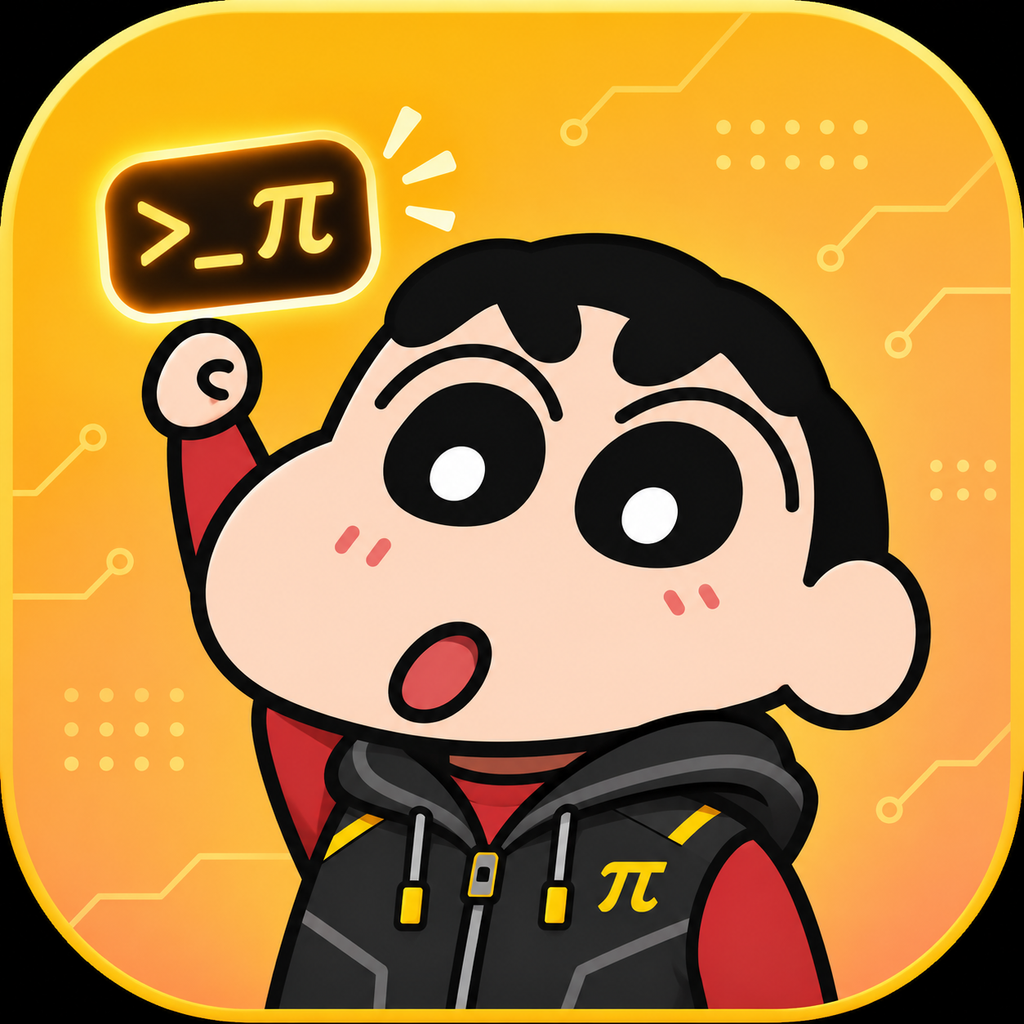
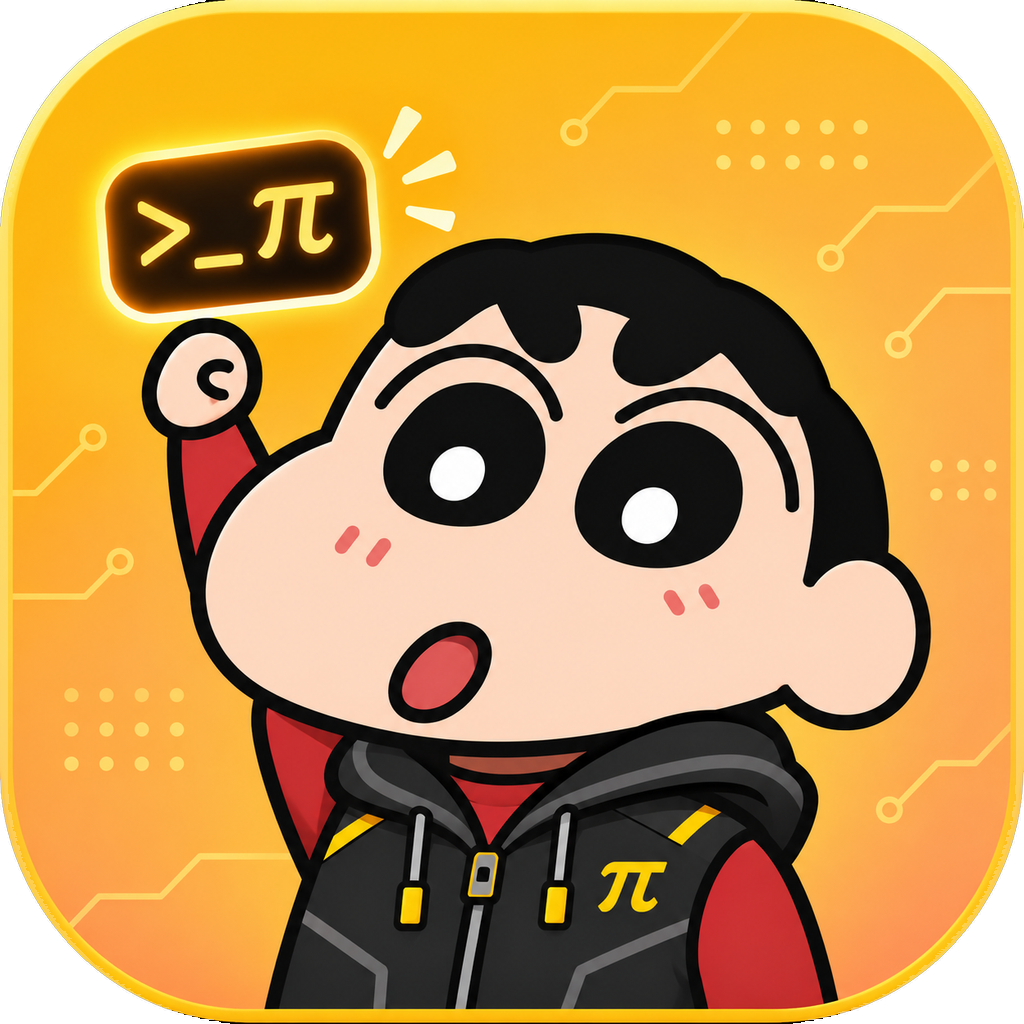
fix(图标): 恢复被压平的 alpha 通道并输出多尺寸 ico
- resources/pi-mx-icon.png 原为无 alpha 的 RGB PNG，圆角外的透明区被压成纯黑，
  桌面/任务栏/安装包图标因此出现一圈黑边
- 新增 scripts/fix-icon-alpha.mjs：按每行轮廓边界还原 alpha，
  边界过渡带用亮度反推（压平公式 pixel = alpha × 前景色），边缘无硬边
- export-app-icon.mjs 的 .ico 改为 16/24/32/48/64/128/256 全套，
  避免 Windows 缩放单张 256 时发虚并把透明压暗

fix(模型): 统一思考程度语义并修复导入时 reasoning 丢失

- modelThinkingLevels() 对 reasoning 缺失一律返回 ['off']，与 pi SDK 的
  definition.reasoning ?? false 保持一致；此前返回 undefined 会让 UI 显示
  完整滑杆而运行时被静默钳制，表现为「思考程度跟模型不匹配」
- defaultModelEntry() 改为只匹配模型名部分（供应商前缀如 opendesign/ 不再
  遮蔽 deepseek 等推理模型特征），并放宽推理家族匹配

Changed region(s): [[0.7812, 0.0, 1.0, 1.0], [0.0, 0.0, 0.2188, 1.0]]

diff --git a/src/renderer/src/features/settings/models-settings-shared.test.ts b/src/renderer/src/features/settings/models-settings-shared.test.ts
@@ -1,0 +1,34 @@
+import { describe, expect, it } from 'vitest'
+import { defaultModelEntry } from './models-settings-shared'
+
+describe('defaultModelEntry', () => {
+  it('marks common reasoning model families as reasoning models', () => {
+    expect(defaultModelEntry('o3-mini').reasoning).toBe(true)
+    expect(defaultModelEntry('gpt-5.2').reasoning).toBe(true)
+    expect(defaultModelEntry('claude-opus-4').reasoning).toBe(true)
+    expect(defaultModelEntry('deepseek-v4.1-flash').reasoning).toBe(true)
+  })
+
+  it('matches on the model name, so a vendor prefix does not hide a reasoning model', () => {
+    // Provider-prefixed ids are the norm for aggregators; the SDK reads
+    // `definition.reasoning ?? false`, so a false negative clamps every level to off.
+    expect(defaultModelEntry('opendesign/deepseek-v4.1-flash').reasoning).toBe(true)
+    expect(defaultModelEntry('codex/gpt-6-luna').reasoning).toBe(true)
+    expect(defaultModelEntry('zcode/GLM-5.3-Flash').reasoning).toBe(true)
+    expect(defaultModelEntry('workbuddy/minimax-m3.1-flash').reasoning).toBe(true)
+  })
+
+  it('leaves a plain model without reasoning rather than guessing wrong', () => {
+    expect(defaultModelEntry('some-plain-model').reasoning).toBeUndefined()
+    expect(defaultModelEntry('some-plain-model').thinkingLevelMap).toBeUndefined()
+  })
+
+  it('gives reasoning models the extended levels the SDK needs', () => {
+    expect(defaultModelEntry('gpt-5').thinkingLevelMap).toEqual({ xhigh: 'xhigh', max: 'max' })
+  })
+
+  it('detects vision input from the model name', () => {
+    expect(defaultModelEntry('gpt-5-vision').input).toEqual(['text', 'image'])
+    expect(defaultModelEntry('plain-model').input).toEqual(['text'])
+  })
+})

diff --git a/src/renderer/src/features/settings/models-settings-shared.tsx b/src/renderer/src/features/settings/models-settings-shared.tsx
@@ -44,9 +44,24 @@ export function ProviderAvatar({ preset, label }: { preset?: ProviderPreset; lab
   )
 }
 
+/**
+ * Entry for a model that is not in the config yet.
+ *
+ * `reasoning` is a guess from the id, because a provider's `/v1/models` listing carries
+ * no capability flags. Match on the model-name part only (after the last `/`), so a
+ * vendor prefix like `opendesign/deepseek-…` still matches on `deepseek`.
+ *
+ * A false negative is the expensive direction: the SDK reads `definition.reasoning ?? false`,
+ * so a model left without `reasoning: true` is treated as non-reasoning and every thinking
+ * level is clamped to `off`. A false positive only costs an extra toggle in the model entry
+ * editor, so the patterns stay generous. Whatever is already written in models.json wins
+ * over this guess (see `mergeModelWithRetained`), and the per-model thinking binding pins
+ * the level the session actually uses.
+ */
 export function defaultModelEntry(id: string): LocalModelEntry {
-  const guessReasoning = /^(o\d|gpt-5|claude-opus|deepseek-reasoner|think)/i.test(id)
-  const guessVision = /(vision|gpt-4o|gemini|claude-3|image)/i.test(id)
+  const name = id.split('/').pop() || id
+  const guessReasoning = /(o\d|gpt-5|gpt-6|claude-(opus|sonnet)|deepseek|reasoner|\br1\b|qwq|glm|minimax|gpt-oss)/i.test(name)
+  const guessVision = /(vision|gpt-4o|gpt-5|gpt-6|gemini|claude-3|image)/i.test(name)
   return {
     id,
     name: id,

diff --git a/packages/shared/model-thinking-levels.test.ts b/packages/shared/model-thinking-levels.test.ts
@@ -5,6 +5,18 @@ describe('model thinking levels', () => {
   it('uses provider mappings and omits explicitly unsupported levels', () => {
     expect(modelThinkingLevels({ reasoning: true, thinkingLevelMap: { off: null, minimal: null, low: 'low', medium: null, high: 'high', xhigh: null, max: 'max' } })).toEqual(['low', 'high', 'max'])
     expect(modelThinkingLevels({ reasoning: false })).toEqual(['off'])
-    expect(modelThinkingLevels({})).toBeUndefined()
+  })
+
+  it('treats a missing reasoning flag as non-reasoning, like the pi SDK', () => {
+    // The SDK reads `definition.reasoning ?? false`, so a model without the flag only
+    // supports `off`. Returning undefined here would make the UI offer levels the
+    // runtime then silently clamps away.
+    expect(modelThinkingLevels({})).toEqual(['off'])
+    expect(modelThinkingLevels({ thinkingLevelMap: { high: 'high' } })).toEqual(['off'])
+  })
+
+  it('includes xhigh and max only when the provider maps them', () => {
+    expect(modelThinkingLevels({ reasoning: true })).toEqual(['off', 'minimal', 'low', 'medium', 'high'])
+    expect(modelThinkingLevels({ reasoning: true, thinkingLevelMap: { xhigh: 'xhigh' } })).toEqual(['off', 'minimal', 'low', 'medium', 'high', 'xhigh'])
   })
 })

diff --git a/packages/shared/model-thinking-levels.ts b/packages/shared/model-thinking-levels.ts
@@ -1,9 +1,17 @@
 export const MODEL_THINKING_LEVELS = ['off', 'minimal', 'low', 'medium', 'high', 'xhigh', 'max'] as const
 export type ModelThinkingLevel = typeof MODEL_THINKING_LEVELS[number]
 
+/**
+ * Available thinking levels for a model, or `undefined` when unknown.
+ *
+ * Must agree with the pi SDK (`@earendil-works/pi-ai` → `getSupportedThinkingLevels`):
+ * the SDK reads `definition.reasoning ?? false`, so a model without an explicit
+ * `reasoning: true` only supports `off`. Returning `undefined` here would make the
+ * UI offer levels the runtime then silently clamps away — the slider would move and
+ * the model would not actually think.
+ */
 export function modelThinkingLevels(model: { reasoning?: boolean; thinkingLevelMap?: Record<string, string | null> }): ModelThinkingLevel[] | undefined {
-  if (model.reasoning === false) return ['off']
-  if (model.reasoning !== true) return undefined
+  if (model.reasoning !== true) return ['off']
   return MODEL_THINKING_LEVELS.filter((level) => {
     const mapped = model.thinkingLevelMap?.[level]
     if (mapped === null) return false
